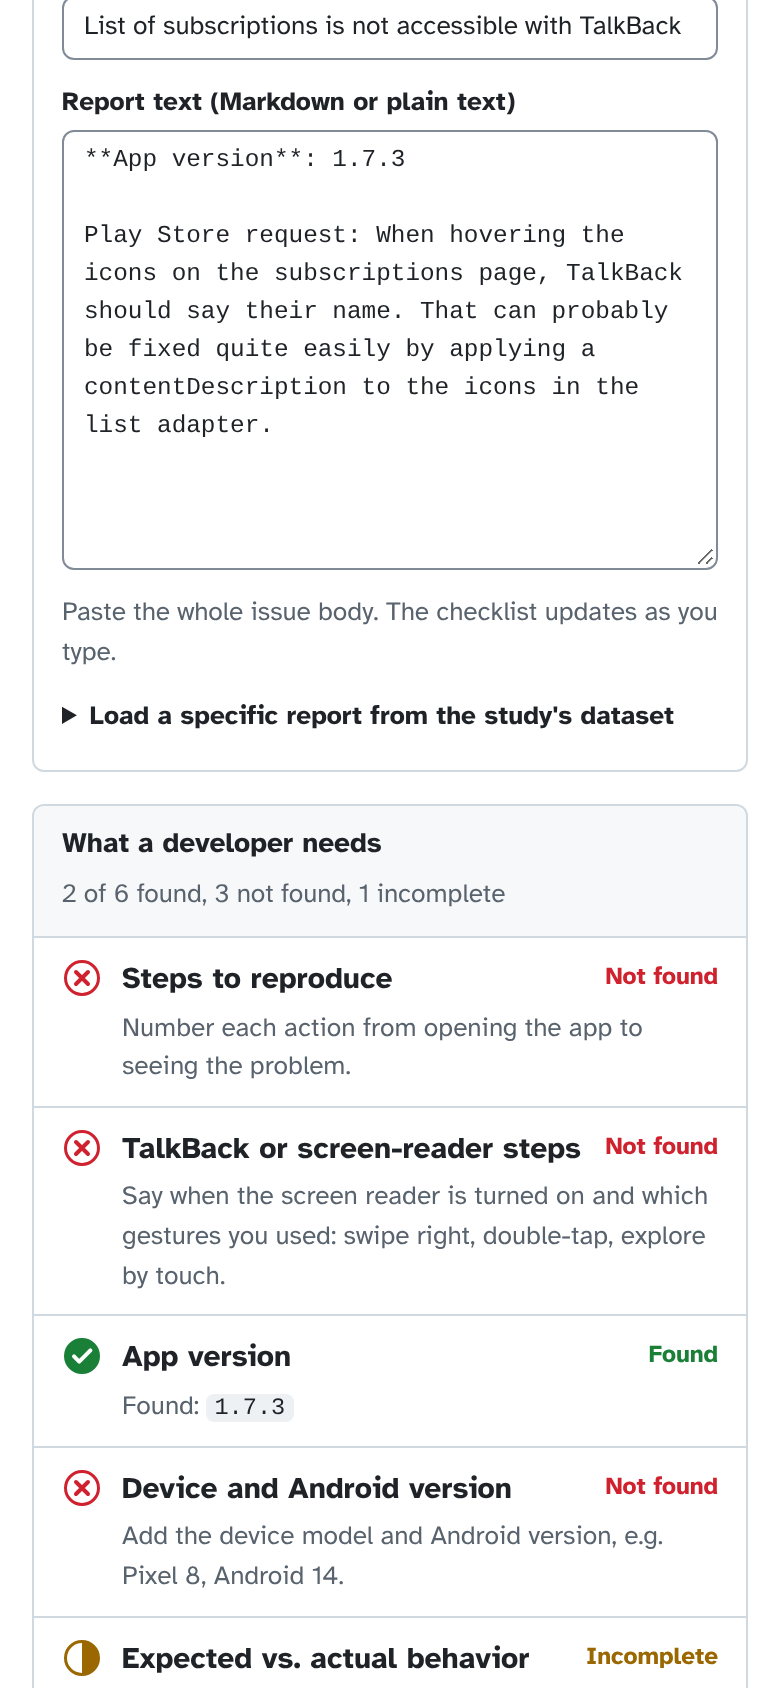
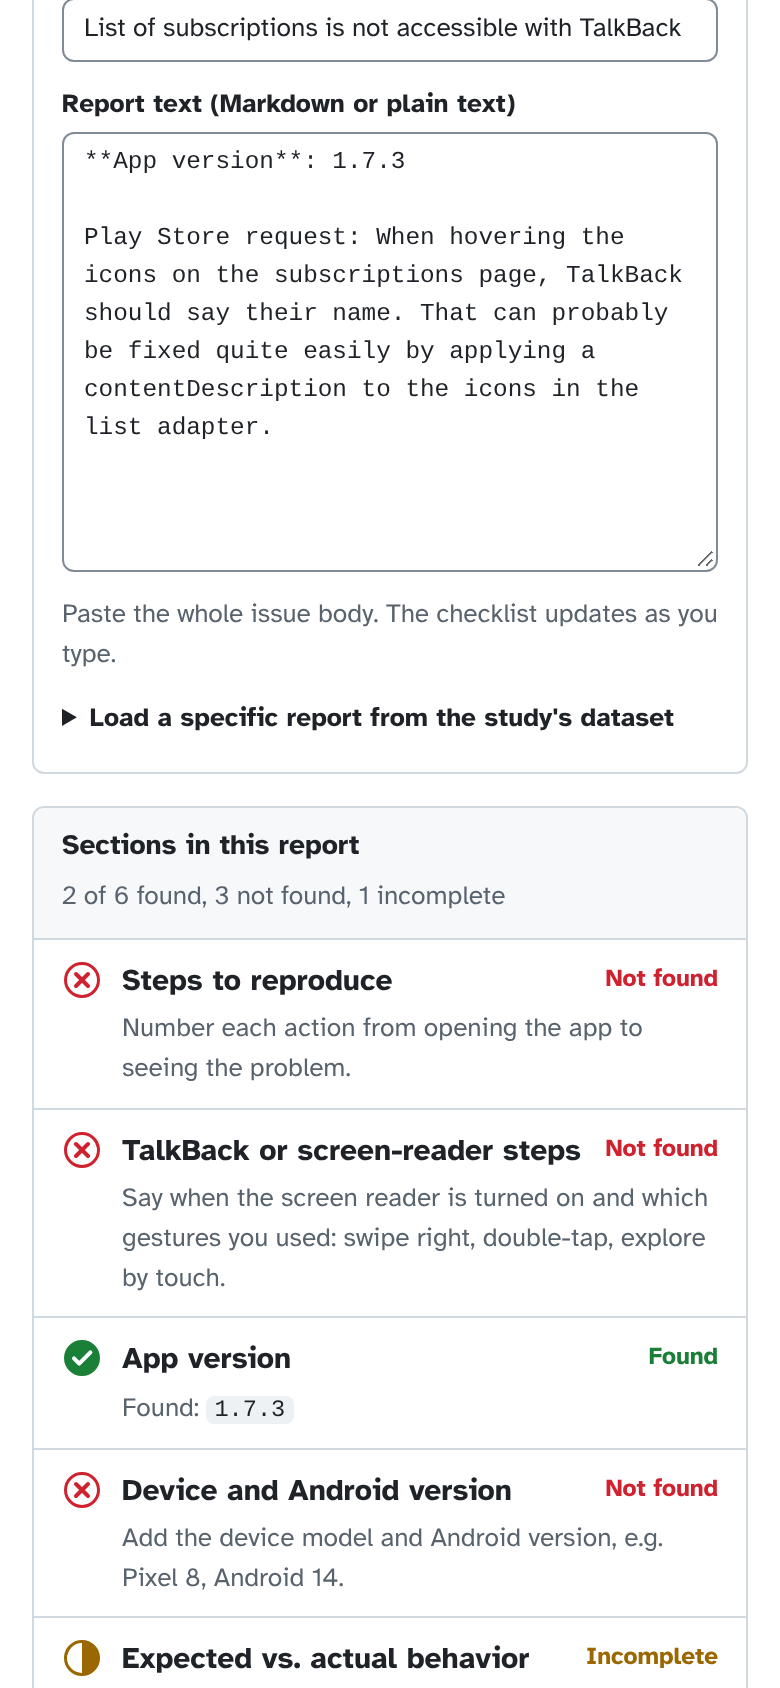
Docs: checker finds missing sections only; describe the issue sample honestly
- Checker page, README and DATA.md: the checker finds missing sections
  only; a report with every section can still be unreproducible, with
  AntennaPod #6598 as the linked example. No user validation is claimed.
- The 75 issues are described as an accessibility-issue sample, not only
  bug reports, with counts from their GitHub type labels (24 bugs/crashes,
  29 feature requests/enhancements, 1 task, 21 unlabelled), citing
  AntennaPod #8145.
- test/copy.test.js guards the wording (fails on main); run by npm test
  and CI. No feature or scoring changes; data/ and results/ unchanged.

Claude-Session: https://claude.ai/code/session_01SBDy3AAAGa7xAC8BzFcKKn

diff --git a/docs/index.html b/docs/index.html
@@ -224,7 +224,8 @@ details > summary { cursor: pointer; font-weight: 700; }
 <section class="view" id="check" role="tabpanel" aria-labelledby="tab-check">
   <div class="lede">
     <h2>Check an Android accessibility bug report</h2>
-    <p class="muted">Paste a bug report to see which details a developer needs to reproduce it, and get a rewritten report with the gaps marked. <span class="honest">Heuristic completeness check (rules, not AI)</span>. It runs in your browser; the text is not sent anywhere.</p>
+    <p class="muted">Paste a bug report to see which sections it is missing, and get a rewritten report with the gaps marked. <span class="honest">Heuristic completeness check (rules, not AI)</span>. It runs in your browser; the text is not sent anywhere.</p>
+    <p class="small muted" id="not-repro">It finds missing sections only. A report with every section can still be impossible to reproduce: <a href="https://github.com/AntennaPod/AntennaPod/issues/6598" rel="noopener">AntennaPod #6598</a> had the app version, Android version, device and numbered TalkBack steps, and still took 8 comments of follow-up and an upstream fix before it was resolved.</p>
   </div>
 
   <div class="toolbar">
@@ -260,7 +261,7 @@ details > summary { cursor: pointer; font-weight: 700; }
 
     <div class="pane">
       <section class="box" aria-labelledby="chk-h">
-        <div class="box-header"><h3 id="chk-h">What a developer needs</h3><span class="summary" id="chk-score" role="status" aria-live="polite"></span></div>
+        <div class="box-header"><h3 id="chk-h">Sections in this report</h3><span class="summary" id="chk-score" role="status" aria-live="polite"></span></div>
         <ul class="lint" id="checklist" aria-labelledby="chk-h"></ul>
         <p class="boxfoot">Pattern rules can miss or over-match. Steps, version and device use the same rules as the study's checklist, plus extra rules for other apps.</p>
       </section>
@@ -300,6 +301,7 @@ details > summary { cursor: pointer; font-weight: 700; }
   <div class="lede">
     <h2>Two-app pilot</h2>
     <p class="muted" id="pilot-lede"></p>
+    <p class="small muted">The 75 issues are an accessibility-issue sample, not only bug reports: by their GitHub type labels, 24 are bugs or crashes, 29 are feature requests or enhancements (for example <a href="https://github.com/AntennaPod/AntennaPod/issues/8145" rel="noopener">AntennaPod #8145</a>, an accessibility concern labelled "Type: Feature request"), 1 is a task and 21 have no type label.</p>
     <p class="small muted">Exploratory: one AI run, no human labels yet. Shortened copies pass an automated check, which has known gaps (see How the study works).</p>
   </div>
 

diff --git a/src/app.html b/src/app.html
@@ -22,7 +22,8 @@
 <section class="view" id="check" role="tabpanel" aria-labelledby="tab-check">
   <div class="lede">
     <h2>Check an Android accessibility bug report</h2>
-    <p class="muted">Paste a bug report to see which details a developer needs to reproduce it, and get a rewritten report with the gaps marked. <span class="honest">Heuristic completeness check (rules, not AI)</span>. It runs in your browser; the text is not sent anywhere.</p>
+    <p class="muted">Paste a bug report to see which sections it is missing, and get a rewritten report with the gaps marked. <span class="honest">Heuristic completeness check (rules, not AI)</span>. It runs in your browser; the text is not sent anywhere.</p>
+    <p class="small muted" id="not-repro">It finds missing sections only. A report with every section can still be impossible to reproduce: <a href="https://github.com/AntennaPod/AntennaPod/issues/6598" rel="noopener">AntennaPod #6598</a> had the app version, Android version, device and numbered TalkBack steps, and still took 8 comments of follow-up and an upstream fix before it was resolved.</p>
   </div>
 
   <div class="toolbar">
@@ -58,7 +59,7 @@
 
     <div class="pane">
       <section class="box" aria-labelledby="chk-h">
-        <div class="box-header"><h3 id="chk-h">What a developer needs</h3><span class="summary" id="chk-score" role="status" aria-live="polite"></span></div>
+        <div class="box-header"><h3 id="chk-h">Sections in this report</h3><span class="summary" id="chk-score" role="status" aria-live="polite"></span></div>
         <ul class="lint" id="checklist" aria-labelledby="chk-h"></ul>
         <p class="boxfoot">Pattern rules can miss or over-match. Steps, version and device use the same rules as the study's checklist, plus extra rules for other apps.</p>
       </section>
@@ -98,6 +99,7 @@
   <div class="lede">
     <h2>Two-app pilot</h2>
     <p class="muted" id="pilot-lede"></p>
+    <p class="small muted">The 75 issues are an accessibility-issue sample, not only bug reports: by their GitHub type labels, 24 are bugs or crashes, 29 are feature requests or enhancements (for example <a href="https://github.com/AntennaPod/AntennaPod/issues/8145" rel="noopener">AntennaPod #8145</a>, an accessibility concern labelled "Type: Feature request"), 1 is a task and 21 have no type label.</p>
     <p class="small muted">Exploratory: one AI run, no human labels yet. Shortened copies pass an automated check, which has known gaps (see How the study works).</p>
   </div>
 

diff --git a/test/copy.test.js b/test/copy.test.js
@@ -1,0 +1,23 @@
+// Guards the wording of the report checker: it finds missing sections; it must not claim that a report
+// with every section is reproducible or ready to act on, and it must describe the sample honestly.
+//   node test/copy.test.js
+"use strict";
+const assert = require("assert");
+const fs = require("fs");
+const path = require("path");
+
+const html = fs.readFileSync(path.join(__dirname, "..", "src", "app.html"), "utf8");
+const check = html.slice(html.indexOf('<section class="view" id="check"'), html.indexOf("<!-- ============ PILOT"));
+const text = check.replace(/<[^>]+>/g, " ").replace(/\s+/g, " ");
+const readme = fs.readFileSync(path.join(__dirname, "..", "README.md"), "utf8");
+const checkerReadme = readme.slice(readme.indexOf("## Report checker"));
+
+const OVERCLAIM = /\b(reproducible|ready to (fix|act)|actionable|needs to reproduce it|developer needs to reproduce|guarantee)/i;
+assert.ok(!OVERCLAIM.test(text.replace(/can still be impossible to reproduce/g, "")), "checker page overclaims: " + (text.match(OVERCLAIM) || [])[0]);
+assert.ok(/finds missing sections only/i.test(text), "checker page says it finds missing sections only");
+assert.ok(/github\.com\/AntennaPod\/AntennaPod\/issues\/6598/.test(check), "checker page links the AntennaPod #6598 example");
+assert.ok(/finds missing sections only/i.test(checkerReadme) && /issues\/6598/.test(checkerReadme), "README checker section says the same");
+assert.ok(!/details a developer needs to reproduce/i.test(readme), "README no longer says the checker finds what is needed to reproduce");
+assert.ok(/no user validation/i.test(checkerReadme), "README says there is no user validation");
+assert.ok(/not only bug reports/.test(readme) && /issues\/8145/.test(readme), "README describes the sample as accessibility issues, citing AntennaPod #8145");
+console.log("copy tests passed");

diff --git a/README.md b/README.md
@@ -6,7 +6,7 @@ This repository is a small, open pilot study and the web app that runs it. It us
 
 **Status: exploratory.** One AI run, no human labels yet. Read the results as "the AI's answer depends on these lines". Whether its answers are *right* still needs labels from people. See [Limitations](#limitations).
 
-**Live app:** https://anirudh763.github.io/talkback-triage-pilot/ opens on a **report checker**: paste an Android accessibility bug report and see which details a developer needs were not found. It is a heuristic check (rules, not AI) and runs in your browser. See [Report checker](#report-checker).
+**Live app:** https://anirudh763.github.io/talkback-triage-pilot/ opens on a **report checker**: paste an Android accessibility bug report and see which sections were not found. It finds missing sections only; a report with every section can still be impossible to reproduce. It is a heuristic check (rules, not AI) and runs in your browser. See [Report checker](#report-checker).
 
 ![Results of the clean run in the app](assets/pilot-results.png)
 
@@ -103,6 +103,8 @@ node scripts/agreement.js labels/rater-a.json labels/rater-b.json
 Public GitHub issues, fetched on 9 November 2026:
 - WordPress for Android: 51 issues labelled `Accessibility` that mention TalkBack or a screen reader.
 - AntennaPod: all 24 issues labelled `Area: Accessibility`.
+
+This is an accessibility-issue sample, not only bug reports: by their GitHub type labels, 24 are bugs or crashes, 29 are feature requests or enhancements (for example [AntennaPod #8145](https://github.com/AntennaPod/AntennaPod/issues/8145), an accessibility concern labelled "Type: Feature request"), 1 is a task and 21 have no type label.
 
 Images and videos become `[image]` and `[video]`, template checklists are dropped, and long bodies are cut at about 1,200 characters. Full details are in [DATA.md](DATA.md).
 
@@ -218,7 +220,7 @@ The next step is human labels from at least two people working independently. [L
 
 ![The report checker on WordPress-Android #21127: three details not found, and the rewritten report with placeholders](docs/screenshots/checker.png)
 
-The front page of the [live app](https://anirudh763.github.io/talkback-triage-pilot/) checks one bug report for the details a developer needs to reproduce it. Press **Try a sample report** to see it on a real, incomplete issue from the dataset, or paste your own.
+The front page of the [live app](https://anirudh763.github.io/talkback-triage-pilot/) checks one bug report for missing sections: steps, versions, device, expected and actual behavior, and where in the app. Press **Try a sample report** to see it on a real, incomplete issue from the dataset, or paste your own.
 
 Each detail is marked Found, Incomplete, Not found, Optional or Not needed, in text and with an icon. Below the list, a rewritten report marks what to add as `[ADD: ...]` and copies the Expected and Actual sections under their own headings.
 
@@ -234,7 +236,7 @@ Each detail is marked Found, Incomplete, Not found, Optional or Not needed, in t
 
 Empty template sections, HTML comments and unfilled placeholders such as `_No response_` or `[device]` don't count as content.
 
-**What it is not.** It is a heuristic completeness check (pattern rules in `src/checker.js`, not AI). It can miss a detail written in an unusual way or count a phrase that only looks like one. It says nothing about whether the AI triage in the study is right, and it doesn't use the AI.
+**What it is not.** It finds missing sections only. A report with every section is not necessarily reproducible or ready to act on: [AntennaPod #6598](https://github.com/AntennaPod/AntennaPod/issues/6598) had the app version, Android version, device and numbered TalkBack steps, and still took 8 comments of follow-up and an upstream fix (its labels include "Needs: Upstream fix") before it was resolved. No interviews or user studies have been done with people who file or triage reports, so the checker has no user validation. It is a heuristic completeness check (pattern rules in `src/checker.js`, not AI). It can miss a detail written in an unusual way or count a phrase that only looks like one. It says nothing about whether the AI triage in the study is right, and it doesn't use the AI.
 
 **Privacy.** The page's Content Security Policy lets it load only its own files and blocks requests to other sites; the browser test checks that such a request is refused. A dataset report has its own link (`#check?report=WP-21127`). **Copy link to this check** puts the whole pasted report into the link after `#`. Browsers don't send that part to the server, but anyone who gets the link can read the report.
 

diff --git a/DATA.md b/DATA.md
@@ -2,7 +2,7 @@
 
 ## What it is
 
-75 accessibility issues from the public GitHub issue trackers of two open-source Android apps, fetched on **9 November 2026** through the GitHub REST API.
+75 accessibility issues from the public GitHub issue trackers of two open-source Android apps, fetched on **9 November 2026** through the GitHub REST API. They are an accessibility-issue sample, not only bug reports: by their GitHub type labels, 24 are bugs or crashes, 29 are feature requests or enhancements (for example [AntennaPod #8145](https://github.com/AntennaPod/AntennaPod/issues/8145), an accessibility concern labelled "Type: Feature request"), 1 is a task and 21 have no type label.
 
 | App | Repository | Selection | Issues |
 |---|---|---|---|
